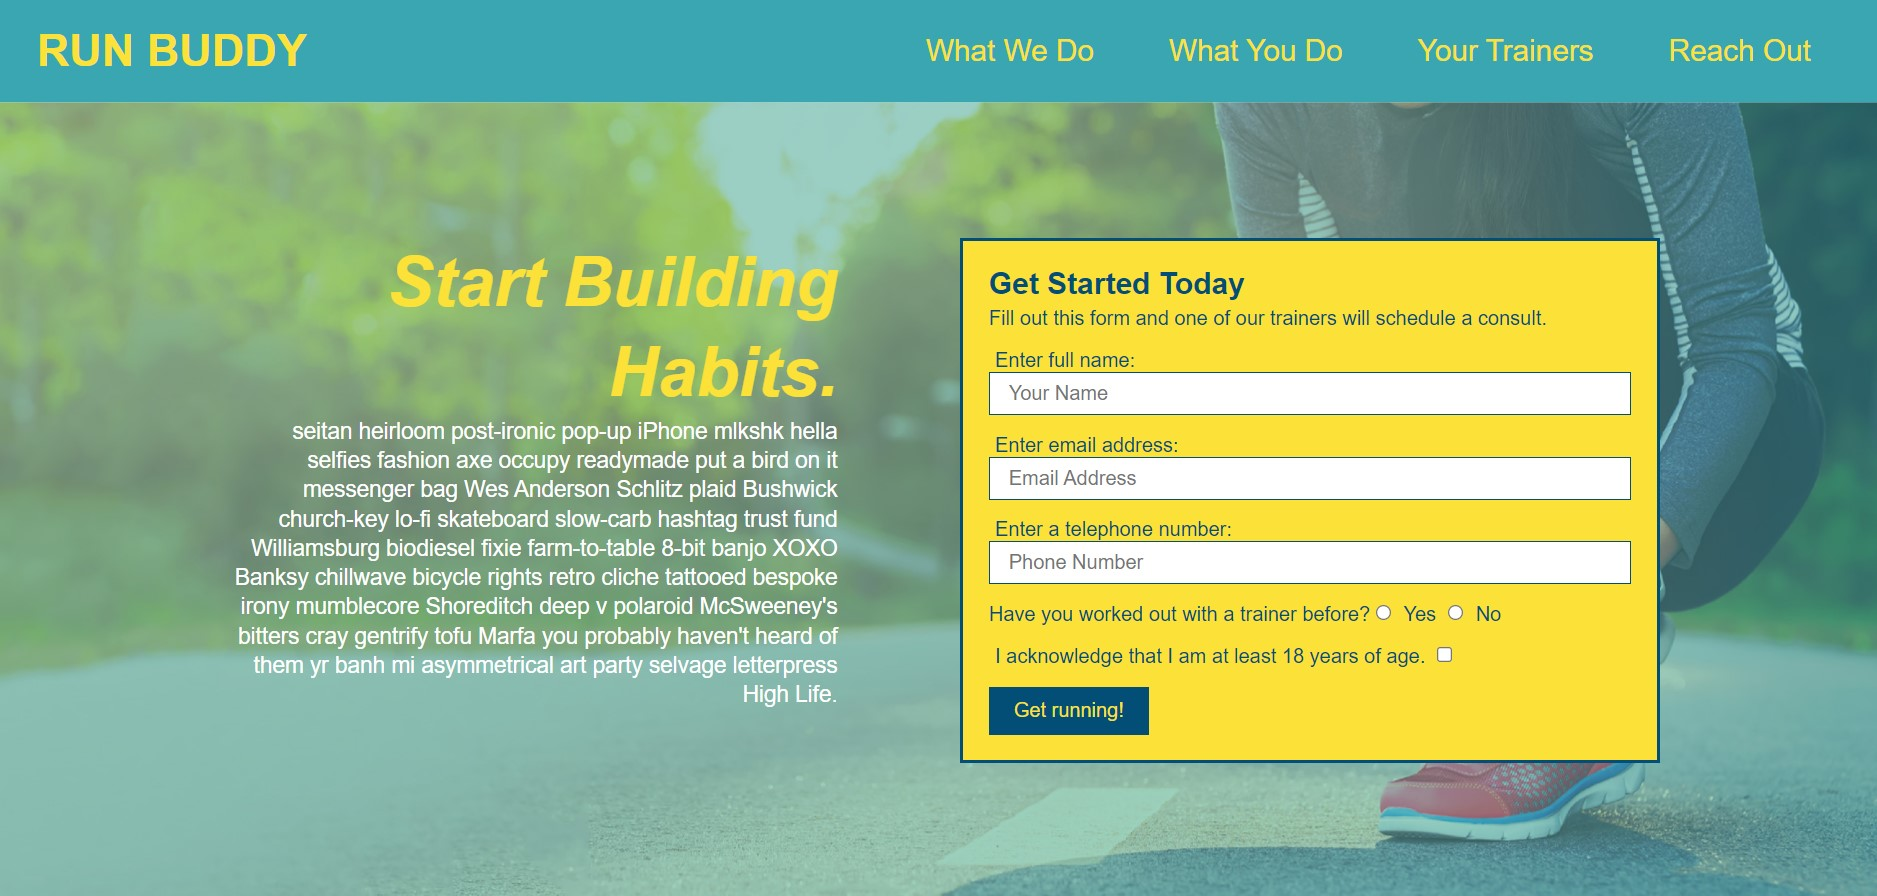
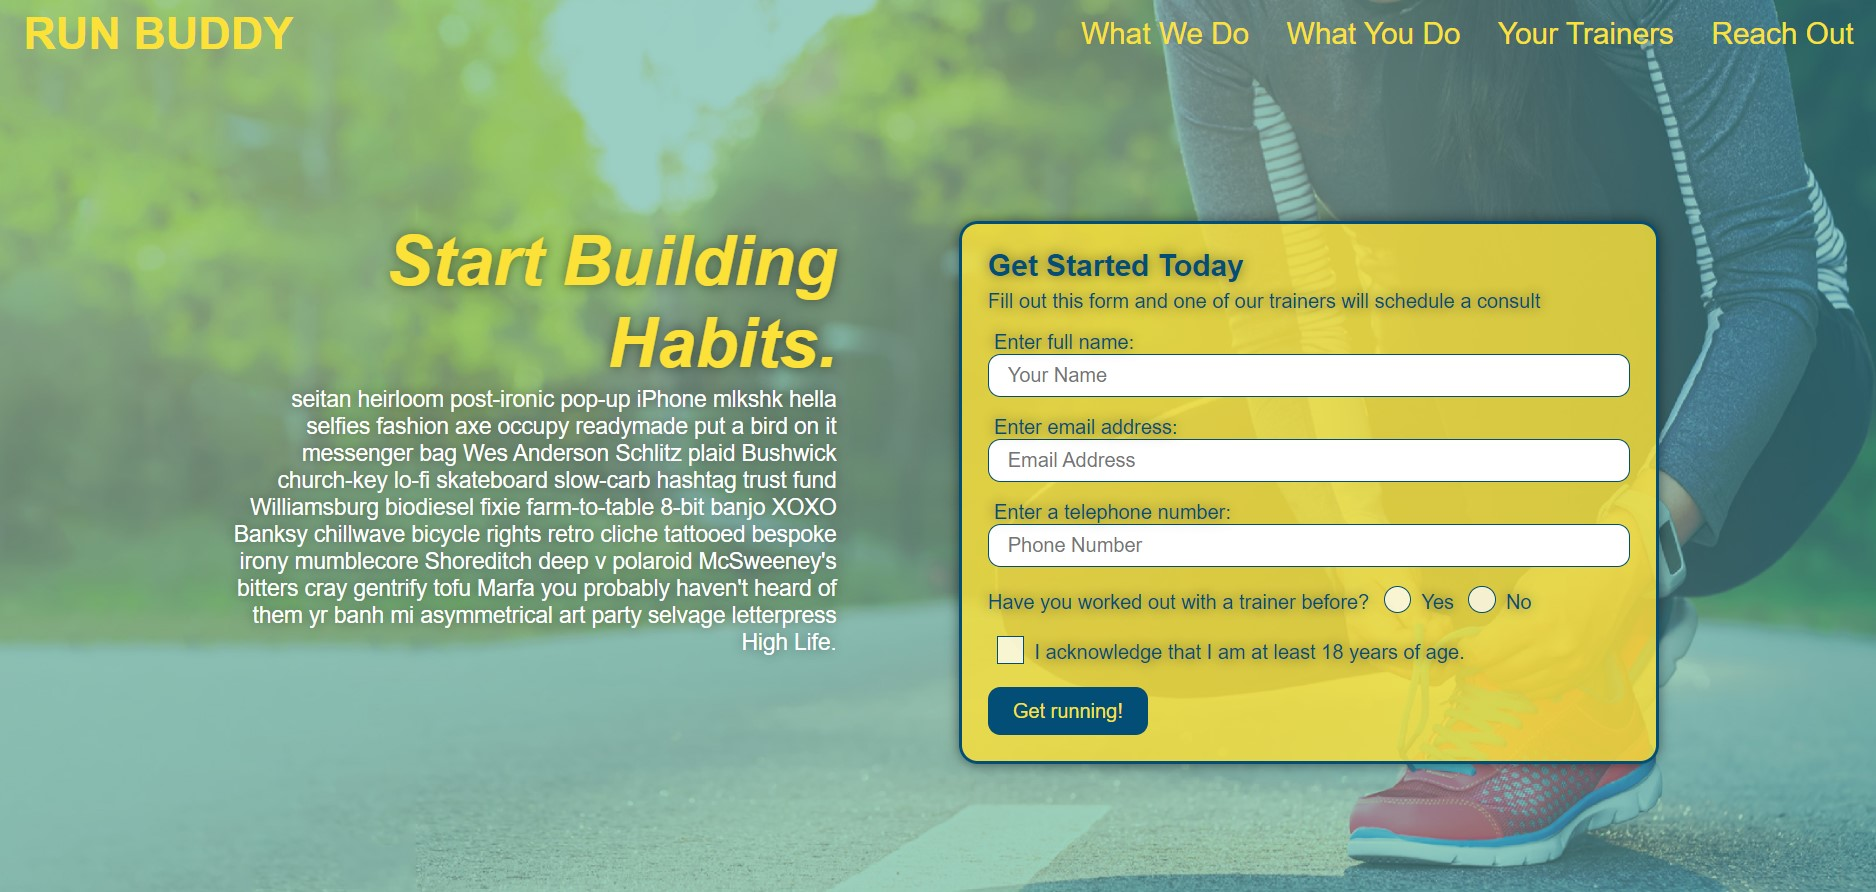
update

diff --git a/assets/css/style.css b/assets/css/style.css
@@ -20,12 +20,13 @@ header h1 {
     display: inline-block;
     font-size: 48px;
 }
+
 header nav {
     padding-top: 15px;
     margin-right: 20px;
     float: right;
     font-family: 'Gill Sans', 'Gill Sans MT', Calibri, 'Trebuchet MS', sans-serif;
-    font-size: 25px;
+    font-size: 20px;
 }
 
 header nav ul {
@@ -41,6 +42,13 @@ a {
     color: #f3eded;
     text-decoration: none;
 }
+
+header nav ul li a:hover {
+    background: #978140;
+    
+    border-radius: 40px;
+    text-shadow: none;
+  }
 
 
 /* HEADER STYLES END */
@@ -75,7 +83,7 @@ a {
 /* ABOUT ME STYLES START */
 
 .intro {
-    height: 400px;
+    height: 350px;
     width: 100%;
     display: flex;
     flex-wrap: wrap;
@@ -109,7 +117,7 @@ a {
 /* works section style starts */ 
 
 .work {
-    height: 900px;
+    height: 1000px;
     width: 100%;
     margin-bottom: 10px;
     display: flex;
@@ -118,7 +126,7 @@ a {
 
 .work h2 {
     font-size: 100px;
-    height: 900px;
+    height: 1000px;
     width: 30%;
     text-align: right;
     padding-right: 30px;
@@ -127,20 +135,35 @@ a {
 
 }
 
-
-.work img {
-    height: 300px;
-    width: 500px;
-    
-    
+.aaa {
+    width: 70%;
 }
+.i img {
+    height: 450px;
+    width: 950px;
+    margin-top: 20px;
+  margin-left: 50px;
+    border: 5px solid rgb(55, 163, 154);
+  
+    box-shadow:  0 0 10px rgba(0, 0, 0, 0.5);
+    position: relative;
+}
+.i h3, .i p {
+ font-size: 50px;
+ position: relative;
+ left: 70px;
+ bottom: 150px;
 
+}
+.t img {
+    height: 200px;
+    width: 448px;
+    margin-top: 20px;
+  margin-left: 50px;
+    border: 5px solid rgb(55, 163, 154);
 
-
-
-
- 
-
+    box-shadow:  0 0 10px rgba(0, 0, 0, 0.5);
+}
     
 
 /* Contact-me section style starts */ 
@@ -166,7 +189,7 @@ a {
    
 }
 
-.content, a {
+.content, .content a {
     width: 2 70%;
     font-size: 25px;
     text-decoration: underline;

diff --git a/index.html b/index.html
@@ -41,7 +41,7 @@
 
 <!-- "about me" section -->
 <section id="about-me" class="intro">
- 
+  
 <h2>About Me</h2>
 <p> Plan, develop, and implement business strategies; evaluate the company’s financial, operational, and sales marketing structure; improve sales, manage marketing, and build relations with customers.<br/>
  Plan, develop, and implement business strategies; evaluate the company’s financial, operational, and sales marketing structure; improve sales, manage marketing, and build relations with customers.</p>
@@ -55,9 +55,26 @@
 <!-- "work" section -->
 <section id="work" class="work">
     <h2>Work</h2>
-  <img src="./assets/image/b1.jpg" alt="" />
+  
+<section id="images" class="aaa">
+  <div class="i">
+    <img src="./assets/image/run-buddy.jpg" alt="" />
+    <h3>Run-Buddy</h3>
+    <p>HTML,CSS</p>
+  </div>
+  <div class="t">
+    <img src="./assets/image/b1.jpg" alt="" />
+    <img src="./assets/image/b2.jpg" alt="" />
+    <img src="./assets/image/b3.jpg" alt="" />
+    <img src="./assets/image/b4.jpg" alt="" />
+    
+  </div>
 
-   
+
+
+</section>
+
+
 </section>
 
 
